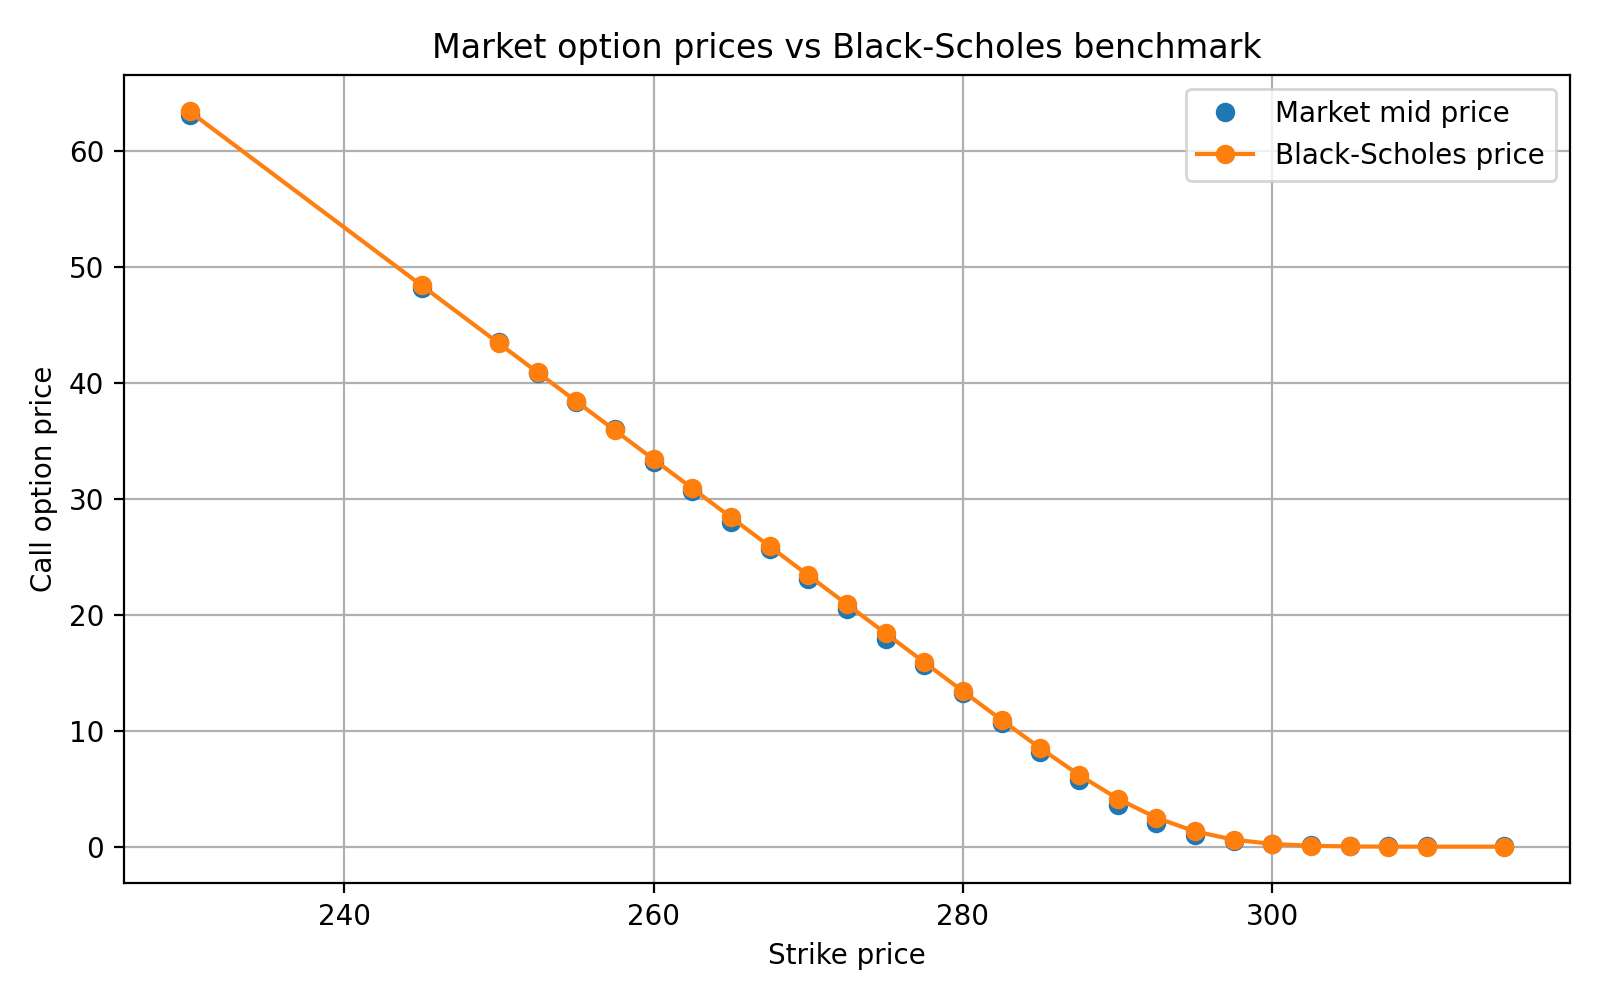
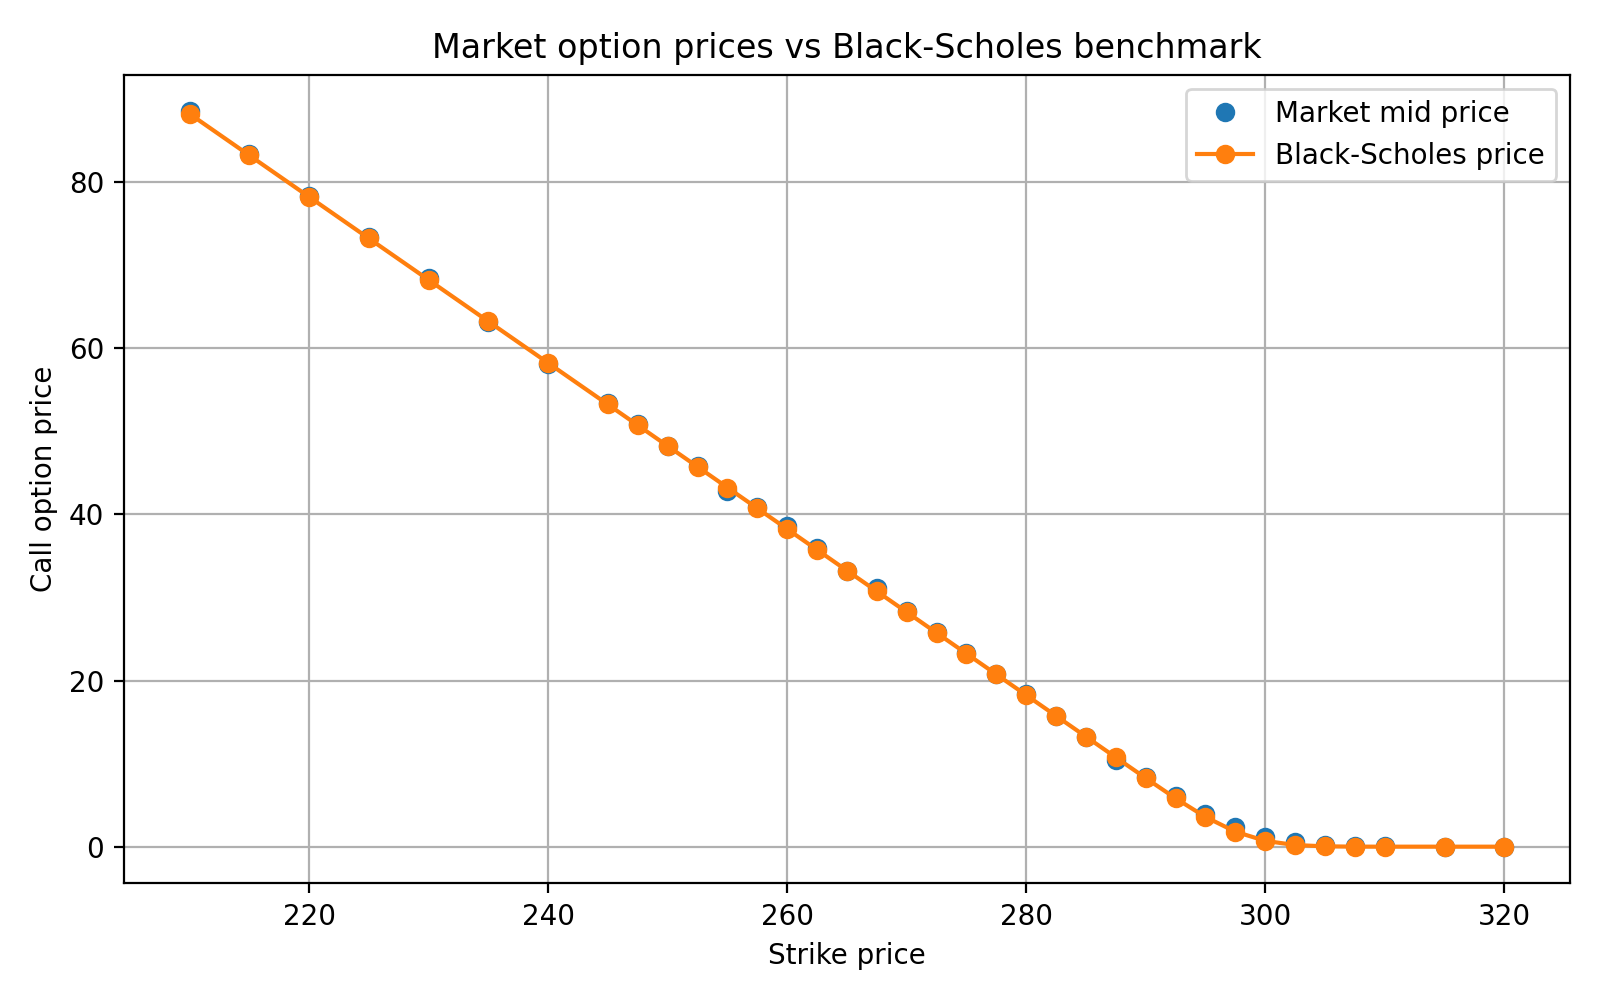
Consolidated plotting, added central MODELS dict, set up default experiment configs

diff --git a/run_experiments.py b/run_experiments.py
@@ -8,28 +8,29 @@ their final MSE/MAE against the analytic Black-Scholes benchmark.
 from pathlib import Path
 import csv
 
-import matplotlib.pyplot as plt
 import torch
-from tqdm import trange
 
 from src.pinn_model import PINN
+from src.plotting import plot_lines
 from src.train import evaluate_vs_analytic, train_model
 
+DEFAULTS = {
+    "hidden_dim": 32,
+    "hidden_layers": 2,
+    "lr": 1e-3,
+    "beta": 1.0,
+    "epochs": 500,
+    "n_interior": 300,
+    "n_terminal": 100,
+    "n_boundary": 100,
+}
 
-def plot_experiment_losses(histories, output_path):
-    plt.figure(figsize=(8, 5))
-
-    for name, loss_history in histories.items():
-        plt.plot(loss_history, label=name)
-
-    plt.xlabel("Epoch")
-    plt.ylabel("Total loss")
-    plt.title("PINN hyperparameter experiment losses")
-    plt.legend()
-    plt.grid(True)
-    plt.tight_layout()
-    plt.savefig(output_path, dpi=200)
-    plt.close()
+EXPERIMENTS = [
+    {"name": "baseline"},
+    {"name": "larger_hidden_dim", "hidden_dim": 64},
+    {"name": "lower_lr", "lr": 5e-4},
+    {"name": "higher_pde_weight", "beta": 10.0},
+]
 
 
 def main():
@@ -39,57 +40,11 @@ def main():
     results_dir = Path("results")
     results_dir.mkdir(exist_ok=True)
 
-    configs = [
-        {
-            "name": "baseline",
-            "hidden_dim": 32,
-            "hidden_layers": 2,
-            "lr": 1e-3,
-            "beta": 1.0,
-            "epochs": 500,
-            "n_interior": 300,
-            "n_terminal": 100,
-            "n_boundary": 100,
-        },
-        {
-            "name": "larger_hidden_dim",
-            "hidden_dim": 64,
-            "hidden_layers": 2,
-            "lr": 1e-3,
-            "beta": 1.0,
-            "epochs": 500,
-            "n_interior": 300,
-            "n_terminal": 100,
-            "n_boundary": 100,
-        },
-        {
-            "name": "lower_lr",
-            "hidden_dim": 32,
-            "hidden_layers": 2,
-            "lr": 5e-4,
-            "beta": 1.0,
-            "epochs": 500,
-            "n_interior": 300,
-            "n_terminal": 100,
-            "n_boundary": 100,
-        },
-        {
-            "name": "higher_pde_weight",
-            "hidden_dim": 32,
-            "hidden_layers": 2,
-            "lr": 1e-3,
-            "beta": 10.0,
-            "epochs": 500,
-            "n_interior": 300,
-            "n_terminal": 100,
-            "n_boundary": 100,
-        },
-    ]
-
     rows = []
     histories = {}
 
-    for config in configs:
+    for experiment in EXPERIMENTS:
+        config = {**DEFAULTS, **experiment}
         print(f"Running experiment: {config['name']}")
 
         torch.manual_seed(0)
@@ -141,8 +96,12 @@ def main():
         writer.writeheader()
         writer.writerows(rows)
 
-    plot_experiment_losses(
+    plot_lines(
+        range(max(len(h) for h in histories.values())),
         histories,
+        "PINN hyperparameter experiment losses",
+        "Epoch",
+        "Total loss",
         output_dir / "hyperparameter_loss_curves.png",
     )
 

diff --git a/evaluate.py b/evaluate.py
@@ -6,56 +6,13 @@ or generate standalone analytic benchmark plots with --analytic-only.
 import argparse
 from pathlib import Path
 
-import matplotlib.pyplot as plt
 import numpy as np
 import torch
 
 from src.black_scholes import european_call_price
-from src.pinn_model import PINN, GatedPINN
+from src.pinn_model import MODELS
+from src.plotting import plot_comparison_slices, plot_lines, plot_surface
 from src.train import evaluate_vs_analytic
-
-MODELS = {
-    "pinn": PINN,
-    "gated": GatedPINN,
-}
-
-
-def plot_error_surface(SS, TT, error, title, output_path):
-    fig = plt.figure(figsize=(9, 6))
-    ax = fig.add_subplot(111, projection="3d")
-
-    ax.plot_surface(SS, TT, error, linewidth=0, antialiased=True)
-
-    ax.set_xlabel("Stock price S")
-    ax.set_ylabel("Time t")
-    ax.set_zlabel("Prediction error")
-    ax.set_title(title)
-
-    plt.tight_layout()
-    plt.savefig(output_path, dpi=200)
-    plt.close()
-
-
-def plot_price_slices(S_values, true_slices, pred_slices, model_name, output_path):
-    plt.figure(figsize=(8, 5))
-
-    for label in true_slices:
-        plt.plot(S_values, true_slices[label], label=f"{label} analytic")
-        plt.plot(
-            S_values,
-            pred_slices[label],
-            linestyle="--",
-            label=f"{label} {model_name}",
-        )
-
-    plt.xlabel("Stock price S")
-    plt.ylabel("Option price V(t, S)")
-    plt.title(f"Analytic Black-Scholes vs {model_name} prediction")
-    plt.legend()
-    plt.grid(True)
-    plt.tight_layout()
-    plt.savefig(output_path, dpi=200)
-    plt.close()
 
 
 def plot_analytic_only(output_dir, K, r, sigma, T, S_max):
@@ -65,34 +22,24 @@ def plot_analytic_only(output_dir, K, r, sigma, T, S_max):
     for t in [0.0, 0.25, 0.5, 0.75, 1.0]:
         slice_data[f"t = {t}"] = european_call_price(S_values, t, K=K, r=r, sigma=sigma, T=T)
 
-    plt.figure(figsize=(8, 5))
-    for label, prices in slice_data.items():
-        plt.plot(S_values, prices, label=label)
-    plt.xlabel("Stock price S")
-    plt.ylabel("Option price V(t, S)")
-    plt.title("Analytic Black-Scholes European Call Price")
-    plt.legend()
-    plt.grid(True)
-    plt.tight_layout()
-    plt.savefig(output_dir / "analytic_price_slices.png", dpi=200)
-    plt.close()
+    plot_lines(
+        S_values, slice_data,
+        "Analytic Black-Scholes European Call Price",
+        "Stock price S", "Option price V(t, S)",
+        output_dir / "analytic_price_slices.png",
+    )
 
     S_grid = np.linspace(1.0, S_max, 100)
     t_grid = np.linspace(0.0, T, 100)
     SS, TT = np.meshgrid(S_grid, t_grid)
-
     VV = european_call_price(SS, TT, K=K, r=r, sigma=sigma, T=T)
 
-    fig = plt.figure(figsize=(9, 6))
-    ax = fig.add_subplot(111, projection="3d")
-    ax.plot_surface(SS, TT, VV, linewidth=0, antialiased=True)
-    ax.set_xlabel("Stock price S")
-    ax.set_ylabel("Time t")
-    ax.set_zlabel("Option price V(t, S)")
-    ax.set_title("Analytic Black-Scholes European Call Price")
-    plt.tight_layout()
-    plt.savefig(output_dir / "analytic_price_surface.png", dpi=200)
-    plt.close()
+    plot_surface(
+        SS, TT, VV,
+        "Analytic Black-Scholes European Call Price",
+        "Option price V(t, S)",
+        output_dir / "analytic_price_surface.png",
+    )
 
     print("Generated figures:")
     print("- figures/analytic_price_slices.png")
@@ -150,9 +97,10 @@ def main():
     error_plot = output_dir / f"{prefix}_error_surface.png"
     slices_plot = output_dir / f"{prefix}_vs_analytic_slices.png"
 
-    plot_error_surface(
+    plot_surface(
         SS, TT, V_pred - V_true,
         f"{model_name} prediction error",
+        "Prediction error",
         error_plot,
     )
 
@@ -172,7 +120,7 @@ def main():
         with torch.no_grad():
             pred_slices[f"t = {t}"] = model(t_slice, S_slice).numpy().reshape(-1)
 
-    plot_price_slices(
+    plot_comparison_slices(
         S_grid, true_slices, pred_slices, model_name, slices_plot,
     )
 

diff --git a/src/plotting.py b/src/plotting.py
@@ -1,0 +1,61 @@
+"""
+Shared plotting utilities.
+"""
+
+from pathlib import Path
+
+import matplotlib.pyplot as plt
+
+
+def plot_surface(SS, TT, ZZ, title, zlabel, output_path):
+    """Plot a 3D surface of ZZ over (SS, TT) grid."""
+    fig = plt.figure(figsize=(9, 6))
+    ax = fig.add_subplot(111, projection="3d")
+    ax.plot_surface(SS, TT, ZZ, linewidth=0, antialiased=True)
+    ax.set_xlabel("Stock price S")
+    ax.set_ylabel("Time t")
+    ax.set_zlabel(zlabel)
+    ax.set_title(title)
+    plt.tight_layout()
+    plt.savefig(Path(output_path), dpi=200)
+    plt.close()
+
+
+def plot_lines(x, line_data, title, xlabel, ylabel, output_path):
+    """
+    Plot one or more lines on a shared axes.
+
+    line_data: dict of {label: y_values} or {label: (y_values, style_kwargs)}.
+    """
+    plt.figure(figsize=(8, 5))
+    for label, value in line_data.items():
+        if isinstance(value, tuple):
+            y, kwargs = value
+            plt.plot(x, y, label=label, **kwargs)
+        else:
+            plt.plot(x, value, label=label)
+    plt.xlabel(xlabel)
+    plt.ylabel(ylabel)
+    plt.title(title)
+    if len(line_data) > 1:
+        plt.legend()
+    plt.grid(True)
+    plt.tight_layout()
+    plt.savefig(Path(output_path), dpi=200)
+    plt.close()
+
+
+def plot_comparison_slices(S_values, true_slices, pred_slices, model_name, output_path):
+    """Plot analytic vs predicted price slices at several time values."""
+    plt.figure(figsize=(8, 5))
+    for label in true_slices:
+        plt.plot(S_values, true_slices[label], label=f"{label} analytic")
+        plt.plot(S_values, pred_slices[label], linestyle="--", label=f"{label} {model_name}")
+    plt.xlabel("Stock price S")
+    plt.ylabel("Option price V(t, S)")
+    plt.title(f"Analytic Black-Scholes vs {model_name} prediction")
+    plt.legend()
+    plt.grid(True)
+    plt.tight_layout()
+    plt.savefig(Path(output_path), dpi=200)
+    plt.close()

diff --git a/run_training.py b/run_training.py
@@ -5,28 +5,11 @@ Train a PINN model on the Black-Scholes benchmark.
 import argparse
 from pathlib import Path
 
-import matplotlib.pyplot as plt
 import torch
 
-from src.pinn_model import PINN, GatedPINN
+from src.pinn_model import MODELS
+from src.plotting import plot_lines
 from src.train import train_model
-
-MODELS = {
-    "pinn": PINN,
-    "gated": GatedPINN,
-}
-
-
-def plot_loss_curve(loss_history, title, output_path):
-    plt.figure(figsize=(8, 5))
-    plt.plot(loss_history)
-    plt.xlabel("Epoch")
-    plt.ylabel("Total loss")
-    plt.title(title)
-    plt.grid(True)
-    plt.tight_layout()
-    plt.savefig(output_path, dpi=200)
-    plt.close()
 
 
 def main():
@@ -71,7 +54,14 @@ def main():
     loss_plot = output_dir / f"{prefix}_training_loss.png"
     model_file = f"{prefix}_model.pt"
 
-    plot_loss_curve(loss_history, f"{model_cls.__name__} training loss", loss_plot)
+    plot_lines(
+        range(len(loss_history)),
+        {"loss": loss_history},
+        f"{model_cls.__name__} training loss",
+        "Epoch",
+        "Total loss",
+        loss_plot,
+    )
     torch.save(model.state_dict(), model_file)
 
     print("Training finished.")

diff --git a/src/pinn_model.py b/src/pinn_model.py
@@ -148,3 +148,9 @@ class ParametricPINN(nn.Module):
 
         x = torch.cat([t_scaled, S_scaled, K_scaled], dim=1)
         return self.net(x)
+
+
+MODELS = {
+    "pinn": PINN,
+    "gated": GatedPINN,
+}